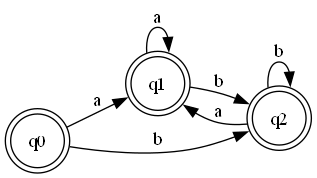
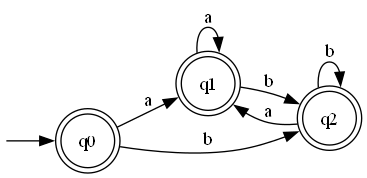
Initial node arrow

Changed region(s): [[0.0, 0.0843, 0.9937, 0.9831], [0.4826, 0.7303, 0.511, 0.8146]]

diff --git a/afn_to_afd.py b/afn_to_afd.py
@@ -61,6 +61,9 @@ class AFNtoAFD:
     def plot_afd(self, filename):
         dot = Digraph(format='png')
         dot.attr(rankdir='LR')
+        dot.node('', shape='none', width='0', height='0', label='')
+        initial_state_name = self.afd_states[frozenset(self.epsilon_closure({self.nfa.start_node}))]
+        dot.edge('', initial_state_name)
         for closure, state_name in self.afd_states.items():
             shape = 'doublecircle' if self.is_accepting(closure) else 'ellipse'
             dot.node(state_name, state_name, shape=shape)
